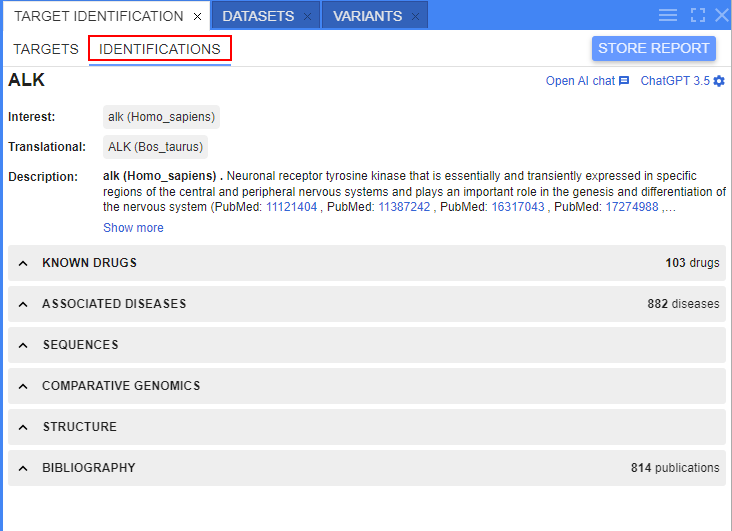
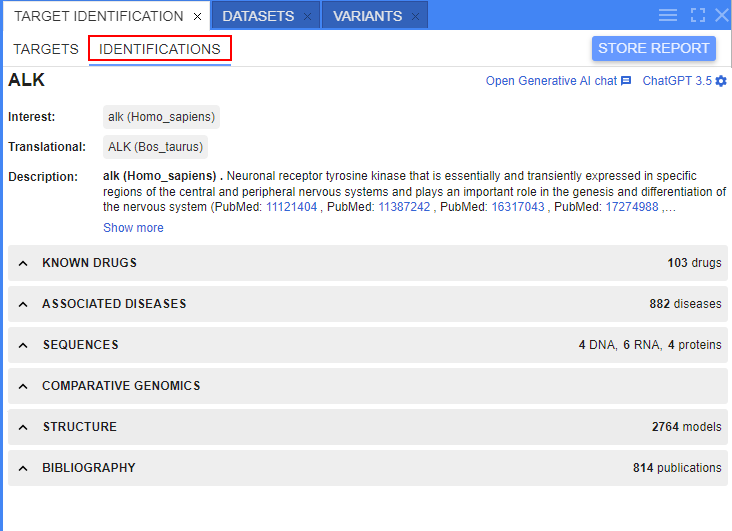
Target identification doc update ('Sequences' and 'Structure' sub-blocks)

diff --git a/docs/md/user-guide/target-identification.md b/docs/md/user-guide/target-identification.md
@@ -328,12 +328,37 @@ The table includes columns:
 
 ### Sequences block
 
-This block contains list of sequence(s) corresponding to the target and its _species of interest_.  
-Separately, block shows:
+This block contains list of sequence(s) corresponding to the target - DNA, RNA, proteins.
 
-- DNA sequences
-- RNA sequences
-- protein sequences  
+When the block is collapsed - its header contains short summary info about the number of found related sequences to the target gene(s):  
+  ![NGB GUI](images/targets-62.png)
+
+When the block is expanded - it contains list of sequences related to the specific target gene, e.g.:  
+  ![NGB GUI](images/targets-63.png)
+
+Switching between target genes is being performed by the corresponding dropdown list in the right upper corner of the block:  
+  ![NGB GUI](images/targets-64.png)
+
+In the top of the block, there is an info about DNA sequence of the gene (if it is found), e.g.:  
+  ![NGB GUI](images/targets-65.png)
+
+Such block includes:
+
+- gene DNA accession. If this gene is presented in any dataset of the current NGB deployment - accession is shown as a hyperlink, user may click such link - the gene track will be opened for that gene, e.g.:  
+  ![NGB GUI](images/targets-66.png)
+- reference to the corresponding NCBI page
+
+List of transcripts related to the specific target gene is presented as a table:  
+  ![NGB GUI](images/targets-67.png)
+
+Such table includes columns:
+
+- _Target_ - gene/transcript name
+- _Transcript_ - transcript accession. Each transcript is the hyperlink to the corresponding page in NCBI platform
+- _Length (nt)_ - transcript length (number of nucleotides in the sequence)
+- _Protein_ - protein accession. Each protein is the hyperlink to the corresponding page in NCBI platform
+- _Length (aa)_ - protein length (number of amino acid items in the sequence)
+- _Protein name_ - name of the protein
 
 ### Comparative genomics block
 
@@ -344,7 +369,38 @@ This block contains information about homologous genes for the target genes:
 
 ### Structure block
 
-This block contains information about the structure of the target gene(s)/transcription(s) and links to found structure models.
+This block contains structures related to the target gene(s)/transcription(s) and allows to view found structure models.
+
+When the block is collapsed - its header contains short summary info about the number of found structures related to the target gene(s):  
+  ![NGB GUI](images/targets-68.png)
+
+When the block is expanded - it contains list of structures related to the target:  
+  ![NGB GUI](images/targets-69.png)
+
+Information for this block is obtained from different sources (databases), local sources are also supported.  
+Switching between sources is being performed by the corresponding dropdown list in the right upper corner of the block:  
+  ![NGB GUI](images/targets-70.png)
+
+List of structures related to the target is presented as a table:  
+  ![NGB GUI](images/targets-71.png)
+
+Such table includes columns (set of columns may vary due to selected source):
+
+- _ID_ - structure ID in a database. It is presented as a hyperlink to the corresponding page of the structure in the selected database (e.g., [PDB](https://www.rcsb.org/))
+- _Name_ - structure name
+- _Method_ - method by which the structure is obtained
+- _Source_ - source database of the structure
+- _Resolution_ - a measure of the quality of the data (level of details presented in the diffraction pattern)
+- _Chains_ - name of macromolecule's polymeric chain of the current gene/protein
+- _Owner_ - owner user name of the structure file (_only for local sources_)
+
+Table supports filtering by _ID_ and _Name_ columns. To filter by any of these columns - specify the filter text to the field under the header of the column, e.g.:  
+  ![NGB GUI](images/targets-72.png)
+
+To open the structure model in a viewer - click its row in the table, e.g.:  
+  ![NGB GUI](images/targets-73.png)  
+Structure model is being opened in the 3D viewer.  
+This viewer is identical to the one using as NGB [Molecular Viewer](overview.md#molecular-viewer-panel).
 
 ### Bibliography block
 
